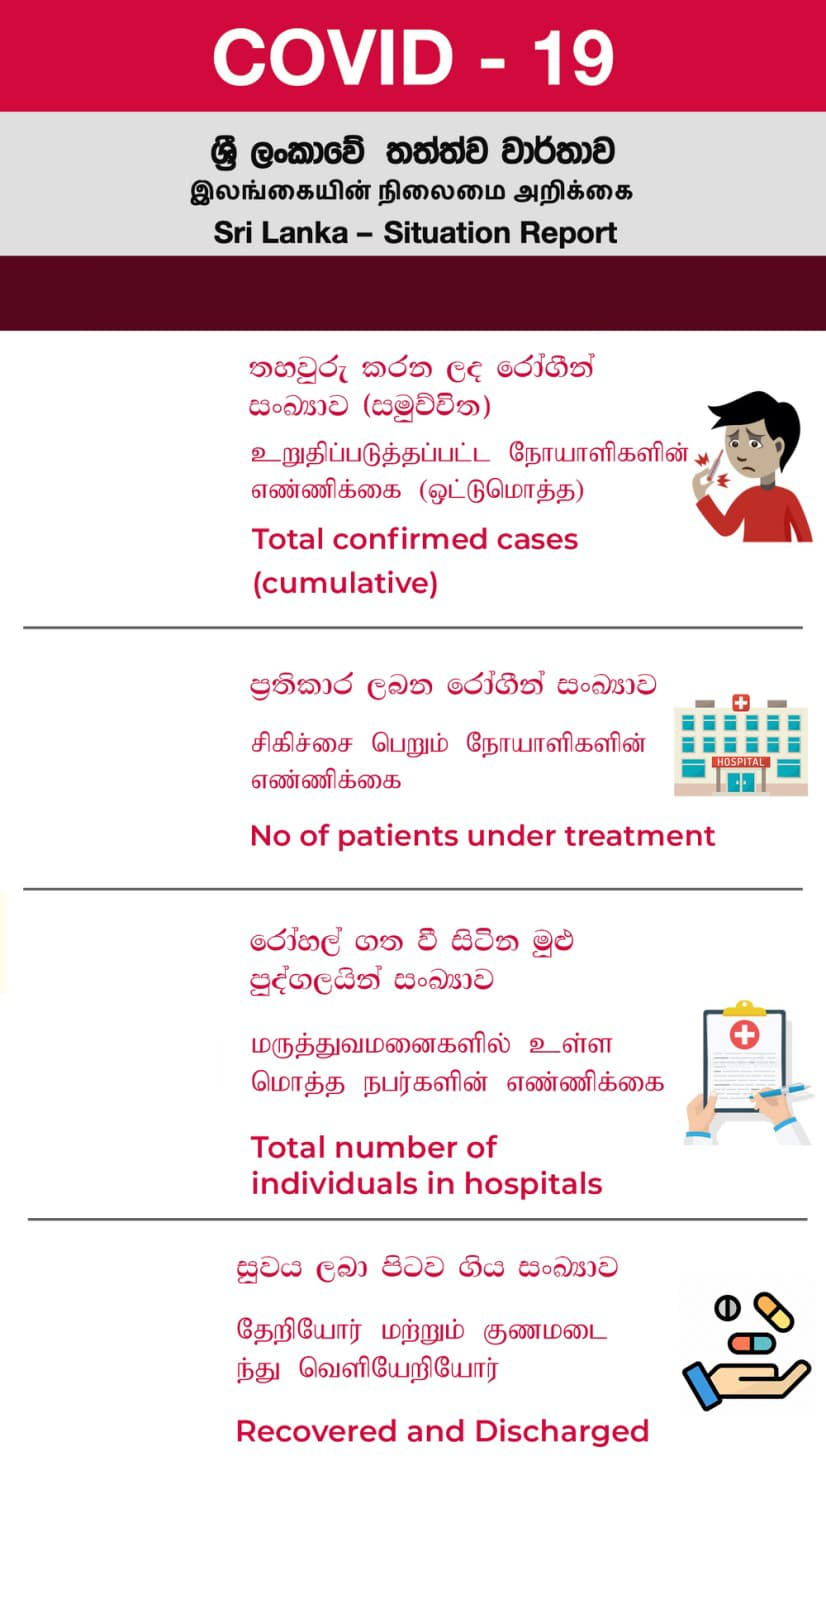
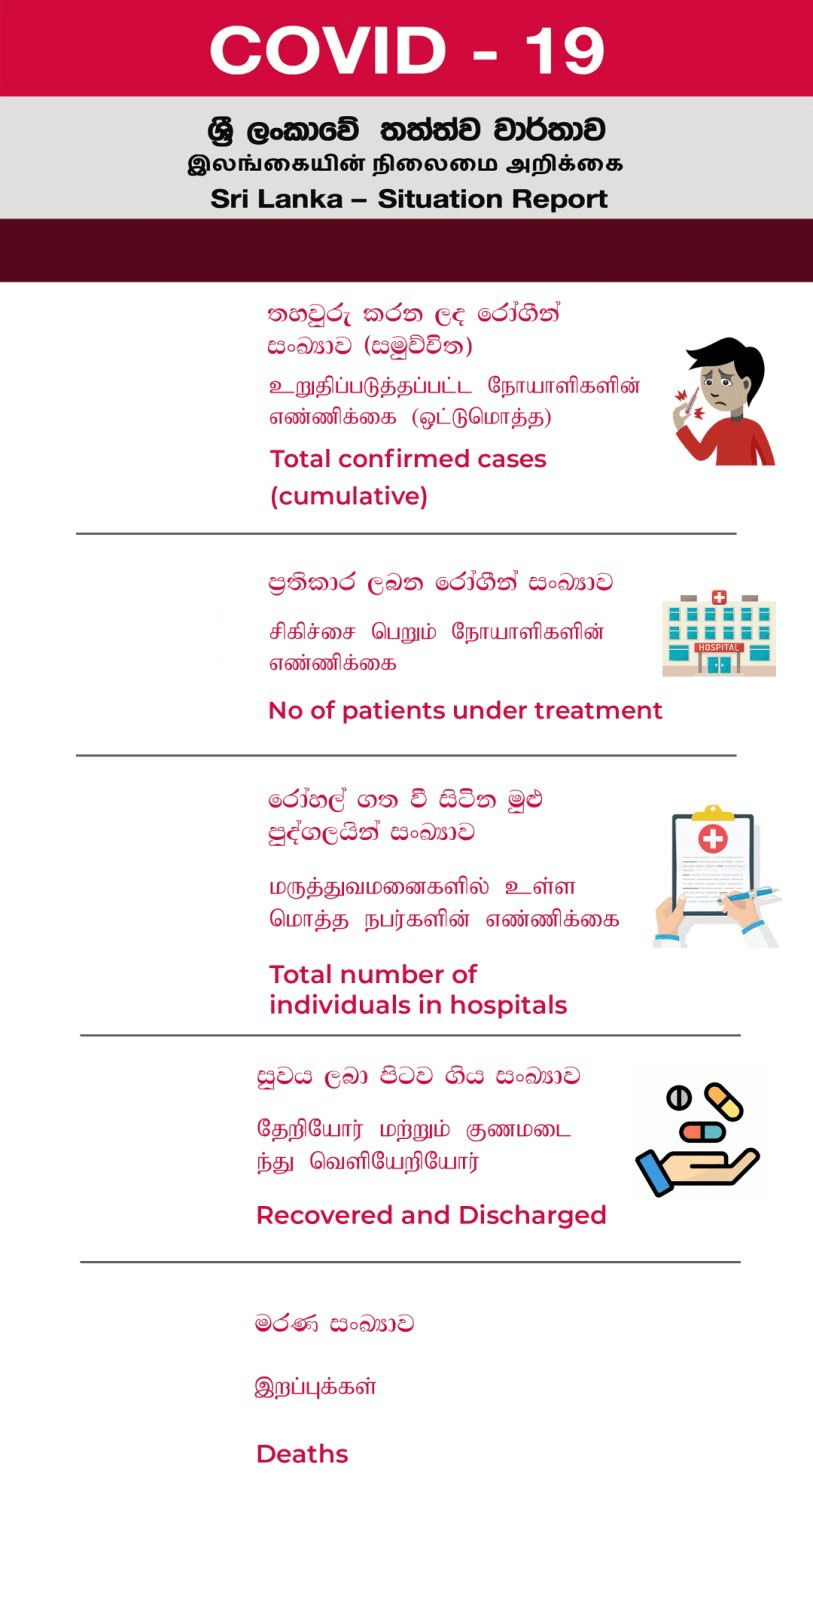
Added Death Count to the Image

Changed region(s): [[0.0, 0.0, 1.0, 0.9375], [0.8303, 0.7812, 0.984, 0.9062]]

diff --git a/Application/Infastructure/Notification/Poster/ImageNotification.cs b/Application/Infastructure/Notification/Poster/ImageNotification.cs
@@ -30,22 +30,25 @@ namespace Application.Infastructure.Notification.Poster
                
                 String dateAndTime = hpbStatistic.LastUpdate.ToString("dd.MM.yyyy") + " - " + hpbStatistic.LastUpdate.ToString("hh.mm tt");
 
-                image.Mutate(ctx => ctx.DrawText(dateAndTime, new Font(fontFamily, 60, FontStyle.Bold), Color.White, new PointF(50, 275)));
+                image.Mutate(ctx => ctx.DrawText(dateAndTime, new Font(fontFamily, 60, FontStyle.Bold), Color.White, new PointF(50, 230)));
 
                 image.Mutate(ctx => ctx.DrawText(hpbStatistic.LocalTotalCases.ToString(), 
-                                new Font(fontFamily, 80, FontStyle.Bold), Color.FromRgb(210, 9, 61), new PointF(40, 440)));
+                                new Font(fontFamily, 80, FontStyle.Bold), Color.FromRgb(210, 9, 61), new PointF(40, 350)));
                 
                 image.Mutate(ctx => ctx.DrawText("New Cases : "+ hpbStatistic.LocalNewCases.ToString(),
-                                new Font(fontFamily, 25, FontStyle.Bold), Color.FromRgb(210, 9, 61), new PointF(30, 600)));
+                                new Font(fontFamily, 25, FontStyle.Bold), Color.FromRgb(210, 9, 61), new PointF(30, 430)));
 
                 image.Mutate(ctx => ctx.DrawText(hpbStatistic.LocalActiveCases.ToString(),
-                                new Font(fontFamily, 80, FontStyle.Bold), Color.FromRgb(210, 9, 61), new PointF(40, 720)));
+                                new Font(fontFamily, 80, FontStyle.Bold), Color.FromRgb(210, 9, 61), new PointF(40, 610)));
 
                 image.Mutate(ctx => ctx.DrawText(hpbStatistic.LocalTotalNumberOfIndividualsInHospitals.ToString(),
-                                new Font(fontFamily, 80, FontStyle.Bold), Color.FromRgb(210, 9, 61), new PointF(40, 1025)));
+                                new Font(fontFamily, 80, FontStyle.Bold), Color.FromRgb(210, 9, 61), new PointF(40, 850)));
 
                 image.Mutate(ctx => ctx.DrawText(hpbStatistic.LocalRecoverd.ToString(),
-                                new Font(fontFamily, 90, FontStyle.Bold), Color.ForestGreen, new PointF(70, 1300)));
+                                new Font(fontFamily, 90, FontStyle.Bold), Color.ForestGreen, new PointF(80, 1110)));
+
+                image.Mutate(ctx => ctx.DrawText(hpbStatistic.LocalDeaths.ToString(),
+                                new Font(fontFamily, 90, FontStyle.Bold), Color.FromRgb(210, 9, 61), new PointF(80, 1355)));
 
                 String imageName = "status_update_" + hpbStatistic.Id + ".jpg";
 
